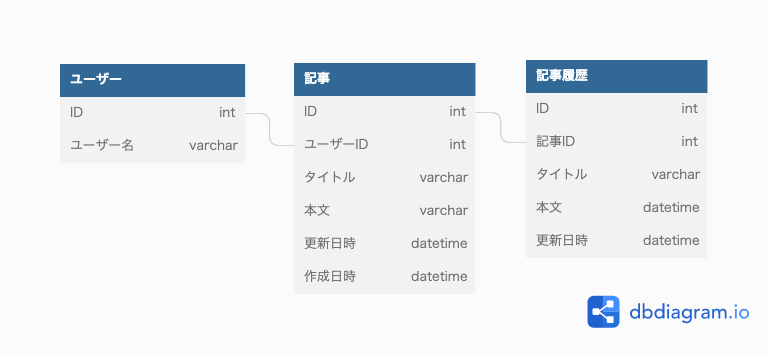
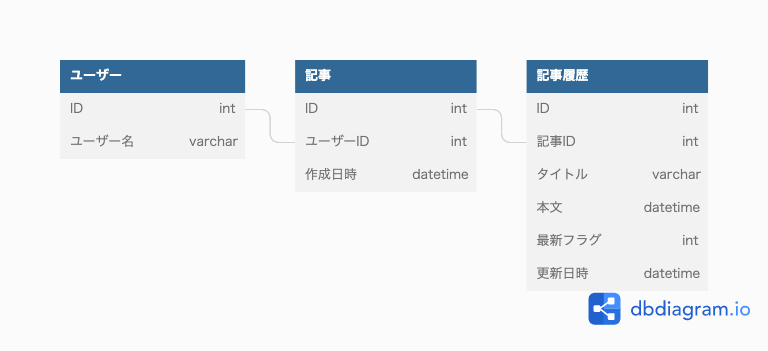
DBモデリング5 課題1の構成修正

diff --git a/DB/05/work/ER_課題1.md b/DB/05/work/ER_課題1.md
@@ -6,9 +6,6 @@ Table "ユーザー" as u {
 Table "記事" as b {
   "ID" int
   "ユーザーID" int
-  "タイトル" varchar
-  "本文" varchar
-  "更新日時" datetime
   "作成日時" datetime
 }
 
@@ -17,6 +14,7 @@ Table "記事履歴" as bh {
   "記事ID" int
   "タイトル" varchar
   "本文" datetime
+  "最新フラグ" int
   "更新日時" datetime
 }
 
